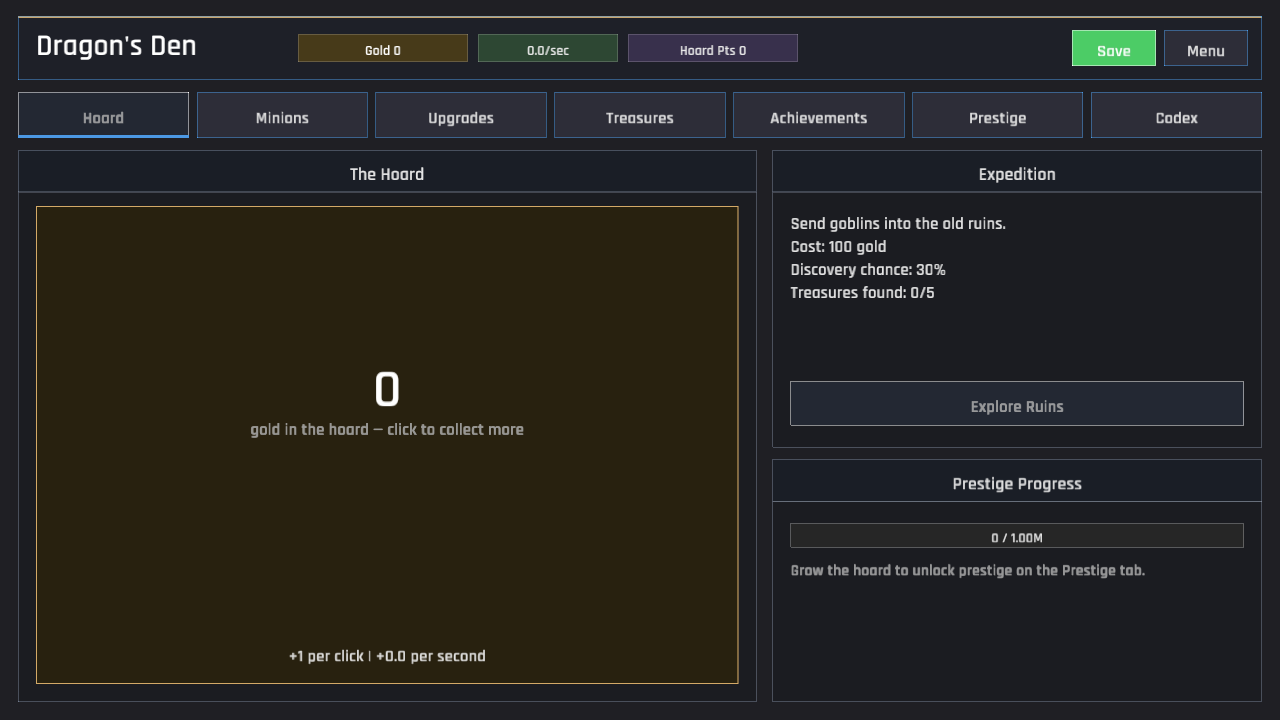
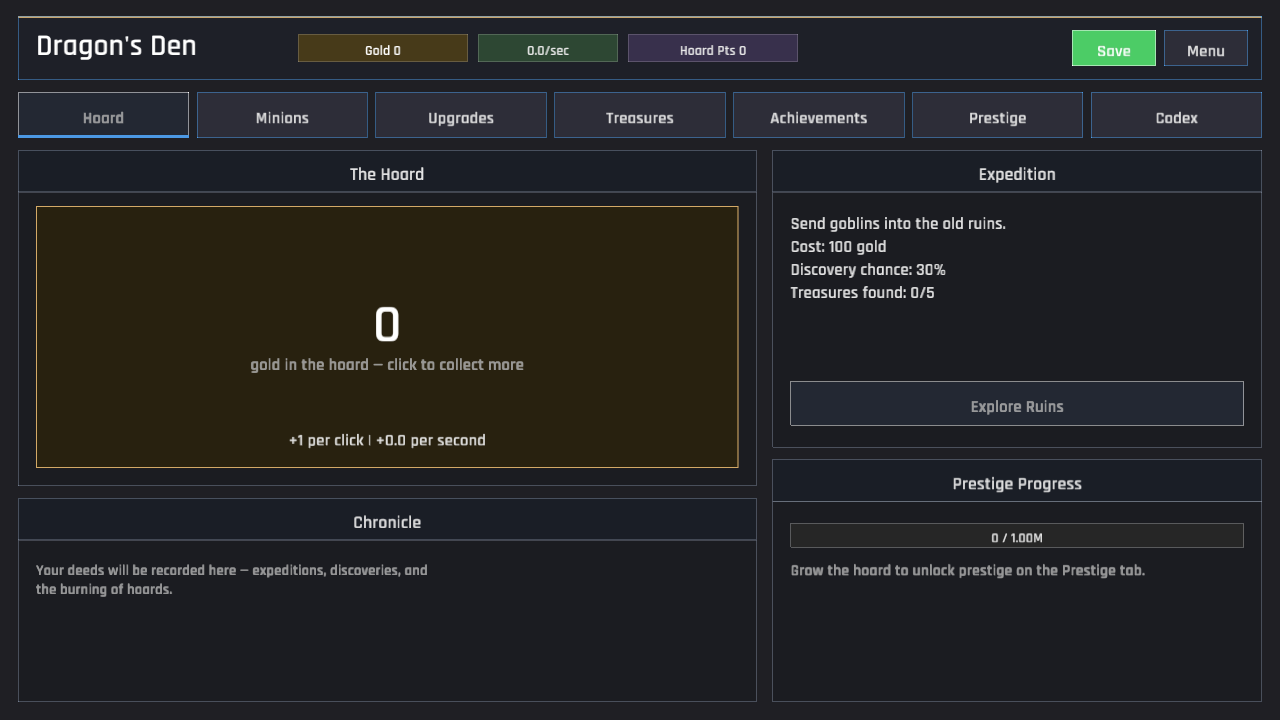
Add Chronicle action log to the Hoard screen
Add a transient ActionLog ring (cap 8) to GameplayState, fed from the
event sites in game.rs — expedition results, achievement/dragon
unlocks, and prestige burns — alongside the existing toasts. The Hoard
screen gains a "Chronicle" panel below the click target listing recent
events newest-first, with an empty-state hint. Refreshed the hoard
verification screenshot.

diff --git a/src/game.rs b/src/game.rs
@@ -68,12 +68,18 @@ impl Game {
 
             for event in gameplay.check_unlocks(&self.data) {
                 match event {
-                    UnlockEvent::Achievement { name } => self
-                        .notifications
-                        .success(format!("Achievement unlocked: {name}")),
-                    UnlockEvent::Dragon { name } => self
-                        .notifications
-                        .success(format!("Dragon revealed: {name}")),
+                    UnlockEvent::Achievement { name } => {
+                        gameplay
+                            .action_log
+                            .push(format!("Achievement unlocked: {name}"));
+                        self.notifications
+                            .success(format!("Achievement unlocked: {name}"));
+                    }
+                    UnlockEvent::Dragon { name } => {
+                        gameplay.action_log.push(format!("Dragon revealed: {name}"));
+                        self.notifications
+                            .success(format!("Dragon revealed: {name}"));
+                    }
                 }
             }
 
@@ -224,12 +230,18 @@ impl Game {
             return;
         };
         match gameplay.try_explore(&self.data) {
-            Ok(ExploreResult::Found { name, rarity }) => self
-                .notifications
-                .success(format!("Expedition found: {name} ({rarity})")),
-            Ok(ExploreResult::NothingFound) => self
-                .notifications
-                .info("The expedition came back empty-clawed"),
+            Ok(ExploreResult::Found { name, rarity }) => {
+                gameplay
+                    .action_log
+                    .push(format!("Expedition found {name} ({rarity})"));
+                self.notifications
+                    .success(format!("Expedition found: {name} ({rarity})"));
+            }
+            Ok(ExploreResult::NothingFound) => {
+                gameplay.action_log.push("Expedition returned empty-clawed");
+                self.notifications
+                    .info("The expedition came back empty-clawed");
+            }
             Ok(ExploreResult::AllDiscovered) => self
                 .notifications
                 .info("Every treasure is already in your hoard"),
@@ -284,6 +296,10 @@ impl Game {
         };
         match gameplay.try_prestige(&self.data) {
             Some(gained) => {
+                gameplay.action_log.push(format!(
+                    "Prestiged — the hoard burned for +{} Hoard Points",
+                    format_amount(gained)
+                ));
                 self.notifications.success(format!(
                     "The hoard burns! +{} Hoard Points",
                     format_amount(gained)

diff --git a/src/ui/hoard.rs b/src/ui/hoard.rs
@@ -4,9 +4,18 @@ use crate::simulation::idle_number::{format_amount, format_rate};
 use crate::ui::{self, GameplayCtx, UiAction};
 use macroquad::prelude::*;
 use macroquad_toolkit::prelude::*;
+use macroquad_toolkit::ui::draw_ui_text_ex;
 
 pub fn draw(ctx: &GameplayCtx<'_>, rect: Rect, actions: &mut Vec<UiAction>) {
-    let left = Rect::new(rect.x, rect.y, rect.w * 0.6 - 8.0, rect.h);
+    let left_w = rect.w * 0.6 - 8.0;
+    let click_h = rect.h * 0.62 - 6.0;
+    let click_target = Rect::new(rect.x, rect.y, left_w, click_h);
+    let log = Rect::new(
+        rect.x,
+        rect.y + click_h + 12.0,
+        left_w,
+        rect.h - click_h - 12.0,
+    );
     let right = Rect::new(
         rect.x + rect.w * 0.6 + 8.0,
         rect.y,
@@ -14,8 +23,52 @@ pub fn draw(ctx: &GameplayCtx<'_>, rect: Rect, actions: &mut Vec<UiAction>) {
         rect.h,
     );
 
-    draw_click_target(ctx, left, actions);
+    draw_click_target(ctx, click_target, actions);
+    draw_action_log(ctx, log);
     draw_side_column(ctx, right, actions);
+}
+
+/// A rolling list of recent events (GDD §9), newest at the top, complementing
+/// the transient toasts.
+fn draw_action_log(ctx: &GameplayCtx<'_>, rect: Rect) {
+    let content = ui::panel(rect, "Chronicle");
+    if ctx.state.action_log.is_empty() {
+        draw_text_block(
+            "Your deeds will be recorded here — expeditions, discoveries, and\nthe burning of hoards.",
+            content.x,
+            content.y + 6.0,
+            content.w,
+            48.0,
+            15.0,
+            4.0,
+            dark::TEXT_DIM,
+        );
+        return;
+    }
+
+    let line_height = 22.0;
+    let max_lines = (content.h / line_height).floor() as usize;
+    for (index, entry) in ctx
+        .state
+        .action_log
+        .entries()
+        .rev()
+        .take(max_lines)
+        .enumerate()
+    {
+        // Fade older entries toward the dim end of the palette.
+        let color = if index == 0 {
+            dark::TEXT_BRIGHT
+        } else {
+            dark::TEXT
+        };
+        draw_ui_text_ex(
+            entry,
+            content.x + 4.0,
+            content.y + 14.0 + index as f32 * line_height,
+            TextStyle::new(15.0, color).params(),
+        );
+    }
 }
 
 fn draw_click_target(ctx: &GameplayCtx<'_>, rect: Rect, actions: &mut Vec<UiAction>) {

diff --git a/src/state/gameplay.rs b/src/state/gameplay.rs
@@ -11,7 +11,7 @@ use crate::simulation::Bonuses;
 use macroquad_toolkit::achievements::{Achievement, Achievements};
 use macroquad_toolkit::rng::SeededRng;
 use serde::{Deserialize, Serialize};
-use std::collections::HashMap;
+use std::collections::{HashMap, VecDeque};
 
 /// Gameplay sub-views, matching the GDD §9 tab list.
 #[derive(Debug, Clone, Copy, PartialEq, Eq)]
@@ -52,6 +52,34 @@ impl BuyMode {
             BuyMode::Ten => 10,
             BuyMode::Max => u32::MAX,
         }
+    }
+}
+
+/// A capped ring of recent player-facing events shown on the Hoard screen
+/// (GDD §9) to complement the transient toasts. Newest is pushed last;
+/// transient — not part of the save.
+#[derive(Debug, Clone, Default)]
+pub struct ActionLog {
+    entries: VecDeque<String>,
+}
+
+impl ActionLog {
+    const CAP: usize = 8;
+
+    pub fn push(&mut self, message: impl Into<String>) {
+        self.entries.push_back(message.into());
+        while self.entries.len() > Self::CAP {
+            self.entries.pop_front();
+        }
+    }
+
+    /// Entries oldest-first; callers reverse for newest-first display.
+    pub fn entries(&self) -> impl DoubleEndedIterator<Item = &String> {
+        self.entries.iter()
+    }
+
+    pub fn is_empty(&self) -> bool {
+        self.entries.is_empty()
     }
 }
 
@@ -169,6 +197,7 @@ pub struct GameplayState {
     pub persistent: PersistentState,
     pub screen: Screen,
     pub buy_mode: BuyMode,
+    pub action_log: ActionLog,
     autosave_accum: f32,
 }
 
@@ -179,6 +208,7 @@ impl GameplayState {
             persistent: PersistentState::new(data, seed),
             screen: Screen::Hoard,
             buy_mode: BuyMode::One,
+            action_log: ActionLog::default(),
             autosave_accum: 0.0,
         }
     }
@@ -191,6 +221,7 @@ impl GameplayState {
             persistent: save.persistent,
             screen: Screen::Hoard,
             buy_mode: BuyMode::One,
+            action_log: ActionLog::default(),
             autosave_accum: 0.0,
         };
         state

diff --git a/IMPLEMENTATION_PLAN.md b/IMPLEMENTATION_PLAN.md
@@ -96,8 +96,11 @@ boots a fresh gameplay session, seed 42).
   (toolkit `fx::FloatingTextLayer`, GDD §9.1). Prestige "burn" flourish spawns a
   larger central "+N Hoard Points" float. Owned by `Game`, drawn in logical UI
   space; click intents anchor to the cursor pos captured each draw.
-- [ ] **Action log** on the Hoard screen (GDD §9) — a small scrolling list of
-  recent events (expedition results, unlocks) to complement the toasts.
+- [x] **Action log** on the Hoard screen (GDD §9) — the "Chronicle" panel below
+  the click target shows the last 8 events newest-first (expedition results,
+  achievement/dragon unlocks, prestige burns). Backed by a transient
+  `ActionLog` ring on `GameplayState`, fed from the event sites in `game.rs`
+  alongside the toasts. Verified in `docs/verification/ui_hoard.png`.
 - [x] **Buy-max / buy-10 affordances** on hire and upgrades. `BuyMode`
   (x1/x10/Max) is a transient field on `GameplayState`, toggled via a shared
   `buy_mode_selector` on both the Minions and Upgrades screens. Economy gained
